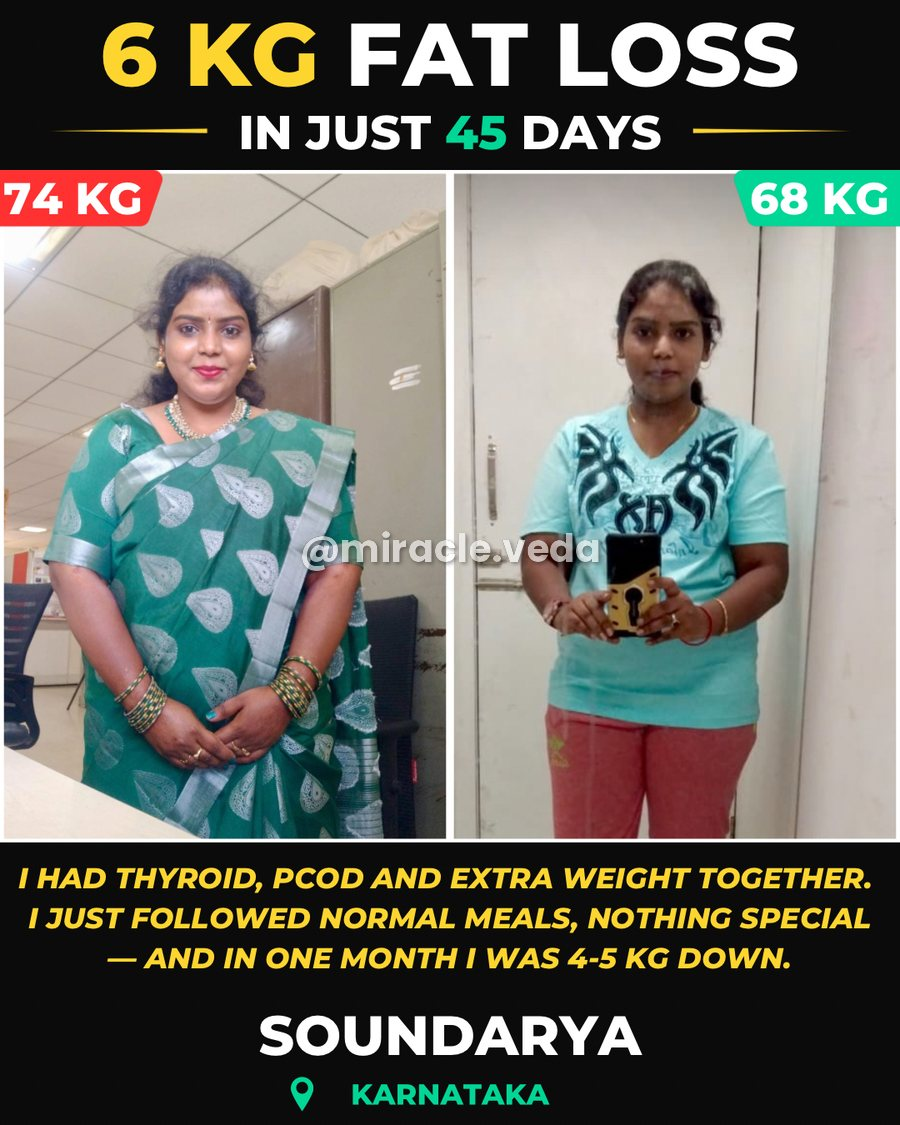
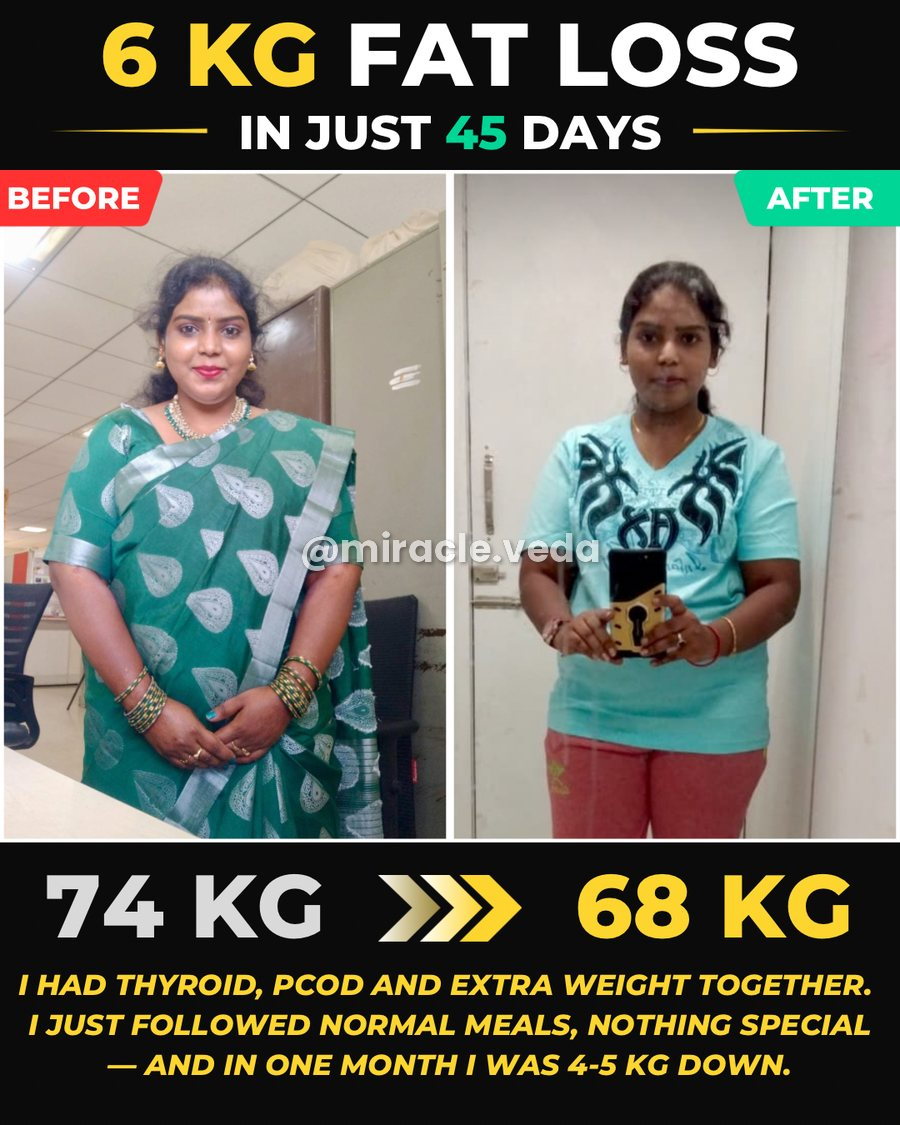
Soundarya: latest photo from Drive, watermarked and versioned

Changed region(s): [[0.0, 0.1556, 0.9956, 0.9956], [0.0, 0.1556, 0.1556, 0.2178]]

diff --git a/index.html b/index.html
@@ -2354,7 +2354,7 @@ src="https://www.facebook.com/tr?id=3144157445775942&ev=PageView&noscript=1"
 
             <div class="client-transformation-card">
                 <div class="transform-image">
-                    <img loading="lazy" decoding="async" src="wp-content/uploads/clients/soundarya.jpg?v=2" alt="Soundarya transformation — Miracle Veda client" width="900" height="1125">
+                    <img loading="lazy" decoding="async" src="wp-content/uploads/clients/soundarya.jpg?v=3" alt="Soundarya transformation — Miracle Veda client" width="900" height="1125">
                 </div>
                 <div class="client-name-tag">
                     <i class="fas fa-user-circle"></i> SOUNDARYA &middot; KARNATAKA
